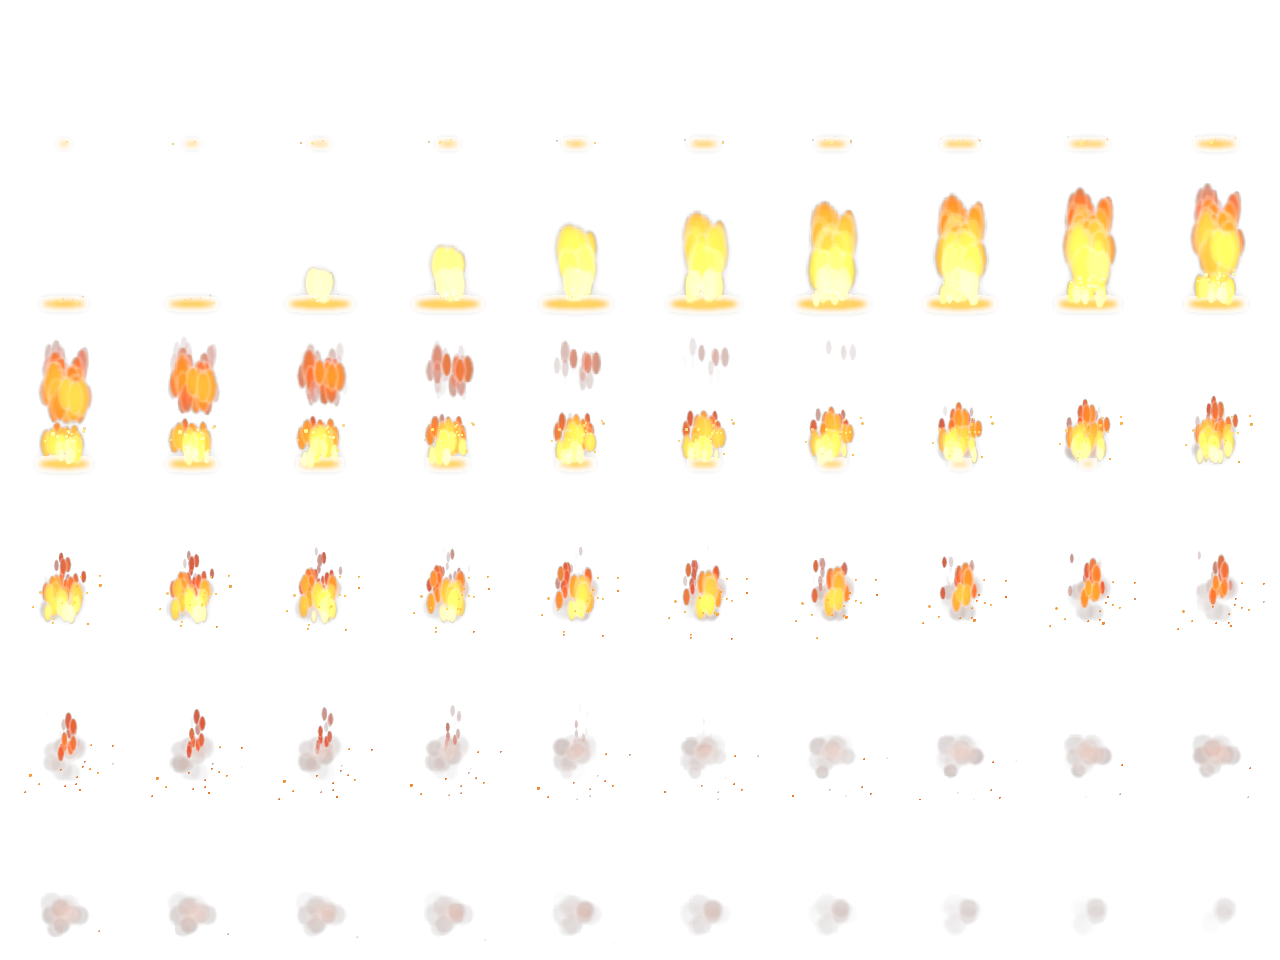
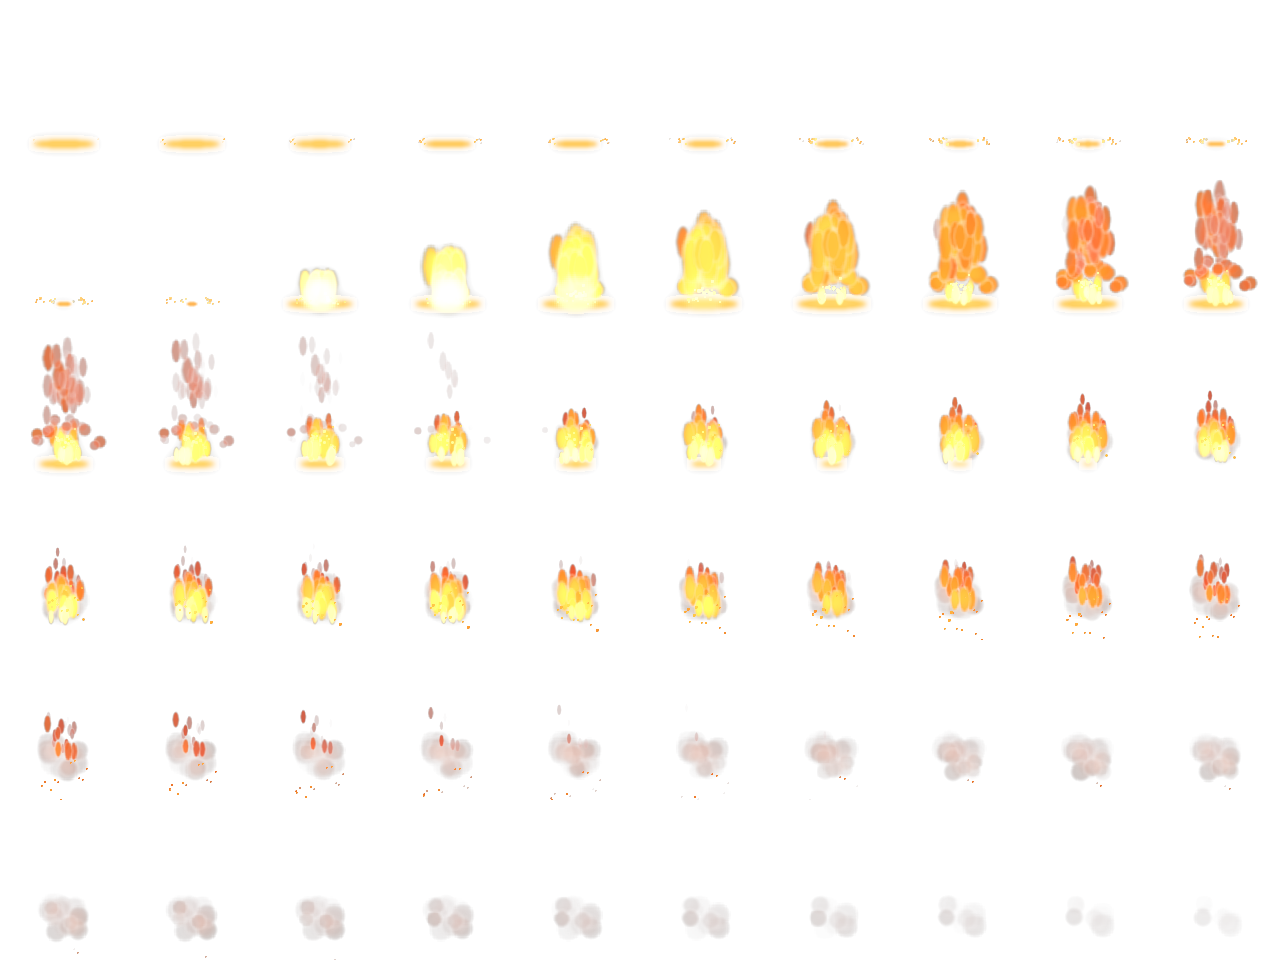
[pixel-composer-mcp] 불 이펙트 피드백 반영: 응축 전조 + 한 번에 터지는 분출

diff --git a/examples/elemental-rise/build_fire.py b/examples/elemental-rise/build_fire.py
@@ -1,7 +1,8 @@
 """Build fire.pxc: an explosive flame burst erupting from the ground line, two styles.
 
-Canvas 128x160, ground y=144, 60 frames @ 24 fps. Timeline: telegraph 0-11 (ground glow, slow
-embers), burst 12-17 (peak ~frame 18), rolling flame to ~32, smoke and falling embers to 59.
+Canvas 128x160, ground y=144, 60 frames @ 24 fps. Timeline: telegraph 0-11 (energy condenses:
+embers converge on the centre while the ground glow shrinks and sharpens), bang at 12 (flash,
+column and sideways blast spawned in 2 frames), rolling flame to ~32, smoke and falling embers to 59.
 Layers are chained through each particle node's Background input (back to front).
 Illustration = the chain's output; pixel = alpha threshold + 6-colour hard gradient map + De-Stray,
 sampled every 2nd frame (12 fps).
@@ -41,7 +42,8 @@ g.add({
     "tongue": ("Node_Shape", 0, 480), "tongsoft": ("Node_Blur", 160, 480), "bloom": ("Node_Bloom", 1120, 0), "haze": ("Node_Level", 1280, 0),
     "glow": ("Node_Shape", 0, 320), "glowsoft": ("Node_Blur", 160, 320),
     "smoke": ("Node_Particle", 320, 0), "hold": ("Node_Particle", 480, 0), "core": ("Node_Particle", 640, 0),
-    "sparks": ("Node_Particle", 800, 0), "tele": ("Node_Particle", 960, 0),
+    "sparks": ("Node_Particle", 800, 0), "inL": ("Node_Particle", 960, 0), "inR": ("Node_Particle", 960, 160),
+    "blast": ("Node_Particle", 480, 160), "flash": ("Node_Particle", 960, 320),
     "thr": ("Node_Threshold", 1120, 160), "amask": ("Node_Alpha_Grey", 1120, 320), "pal": ("Node_Posterize", 1280, 160), "clean": ("Node_De_Stray", 1440, 160),
     "sheet_il": ("Node_Render_Sprite_Sheet", 1600, 0), "sheet_px": ("Node_Render_Sprite_Sheet", 1600, 160),
     "png_il": ("Node_Export", 1760, 0), "gif_il": ("Node_Export", 1760, 80),
@@ -55,11 +57,11 @@ g.dim("tongue", 0, [24, 40]).set("tongue", 17, [0.28, 0.4]).set("tongue", 2, "El
 g.link("tongue", "tongsoft", 0).set("tongsoft", 1, 4)
 g.dim("dot", 0, [6, 6]).set("dot", 17, [0.35, 0.35]).set("dot", 2, "Ellipse").set("dot", 1, 0).set("dot", 6, True)
 
-# ground glow: grows during the telegraph, flashes wide on the burst, fades out
+# ground glow: wide and diffuse -> tight and hot during the telegraph (condensing), flashes wide on the bang
 g.set("glow", 2, "Ellipse").set("glow", 1, 0).set("glow", 6, True).set("glow", 15, 1)
 g.set("glow", 16, [CX, GROUND], absolute=True).set("glow", 10, color(255, 170, 80))
-g.anim("glow", 17, [(0, [4, 1]), (11, [22, 3]), (12, [30, 4]), (16, [34, 5]), (26, [10, 2]), (30, [0, 0])], absolute=True)
-g.link("glow", "glowsoft", 0).set("glowsoft", 1, 6)
+g.anim("glow", 17, [(0, [30, 4]), (11, [5, 2]), (12, [32, 4]), (16, [34, 5]), (26, [10, 2]), (30, [0, 0])], absolute=True)
+g.link("glow", "glowsoft", 0).anim("glowsoft", 1, [(0, 6), (11, 2), (12, 6)])  # >6 wraps the ground glow to the top row
 
 FIRE = [(0, (255, 250, 220)), (0.2, (255, 220, 90)), (0.45, (255, 140, 40)), (0.7, (230, 70, 30)), (1, (150, 30, 30))]
 emitter(g, "smoke", "soft", "glowsoft", spawn=switch(20, 50), amount=[1, 2], area=[CX, 122, 16, 14],
@@ -70,32 +72,46 @@ emitter(g, "hold", "tongsoft", "smoke", spawn=switch(16, 34), amount=[3, 4], are
         life=[10, 16], direction=[82, 98], speed=[4, 7], speed_curve=[(0, 1), (1, 0.3)],
         size=[0.6, 0.9], size_curve=[(0, 0.5), (0.3, 1), (1, 0.3)],
         colors=FIRE, alpha_curve=[(0, 1), (0.75, 0.9), (1, 0)])
-emitter(g, "core", "tongsoft", "hold", spawn=switch(12, 18), amount=[9, 11], area=[CX, 143, 12, 2],
-        life=[8, 12], direction=[80, 100], speed=[17, 21], speed_curve=[(0, 1), (0.5, 0.35), (1, 0.15)],
+# the bang: everything below spawns in frames 12-13 only
+emitter(g, "blast", "soft", "hold", spawn=switch(12, 14), amount=[8, 10], area=[CX, 140, 4, 2],
+        life=[10, 14], direction=[20, 160], speed=[9, 11], speed_curve=[(0, 1), (0.3, 0.25), (1, 0.05)],
+        size=[0.7, 1.0], size_curve=[(0, 0.6), (0.3, 1.1), (1, 0.3)],
+        colors=FIRE, alpha_curve=[(0, 1), (0.6, 0.9), (1, 0)])
+# wide speed range: particles spawned together still stretch into one column instead of a lump
+emitter(g, "core", "tongsoft", "blast", spawn=switch(12, 14), amount=[22, 26], area=[CX, 143, 12, 2],
+        life=[8, 13], direction=[80, 100], speed=[10, 22], speed_curve=[(0, 1), (0.5, 0.35), (1, 0.15)],
         size=[0.9, 1.3], size_curve=[(0, 0.5), (0.25, 1.15), (1, 0.35)],
         colors=FIRE, alpha_curve=[(0, 1), (0.6, 0.9), (1, 0)])
 emitter(g, "sparks", "dot", "core", spawn=switch(12, 16), amount=[3, 5], area=[CX, 140, 10, 4],
-        life=[30, 44], direction=[65, 115], speed=[3, 6], speed_curve=[(0, 1), (1, 0.4)],
+        life=[30, 44], direction=[72, 108], speed=[3, 5], speed_curve=[(0, 1), (1, 0.4)],
         size=[0.6, 1.0], size_curve=[(0, 1), (1, 0.6)],
         colors=[(0, (255, 250, 200)), (0.5, (255, 180, 60)), (1, (220, 70, 30))],
         alpha_curve=[(0, 1), (0.8, 1), (1, 0)], gravity=[0.3, 0.4])
-emitter(g, "tele", "dot", "sparks", spawn=switch(0, 12), amount=[1, 1], area=[CX, 144, 22, 1],
-        life=[8, 14], direction=[85, 95], speed=[0.6, 1.2], speed_curve=[(0, 1), (1, 1)],
-        size=[0.6, 0.9], size_curve=[(0, 1), (1, 0.5)],
-        colors=[(0, (255, 220, 120)), (1, (230, 80, 30))], alpha_curve=[(0, 1), (1, 0)])
+# telegraph: embers from both sides accelerate into the centre and die before the bang
+# (spread comes from the area height, not the angle, so directions stay exactly 0 / 180)
+CONVERGE = dict(spawn=switch(0, 9), amount=[1, 2], life=[9, 11], speed=[3.4, 3.8],
+                speed_curve=[(0, 0.4), (1, 1)], size=[0.6, 0.9], size_curve=[(0, 0.6), (1, 1)],
+                colors=[(0, (255, 160, 60)), (1, (255, 240, 170))], alpha_curve=[(0, 0), (0.2, 1), (0.85, 1), (1, 0)])
+emitter(g, "inL", "dot", "sparks", area=[CX - 30, 141, 6, 3], direction=[0, 0], **CONVERGE)
+emitter(g, "inR", "dot", "inL", area=[CX + 30, 141, 6, 3], direction=[180, 180], **CONVERGE)
+# white flash on the bang frame, in front of everything
+emitter(g, "flash", "soft", "inR", spawn=switch(12, 14), amount=[1, 1], area=[CX, 136, 0, 0],
+        life=[4, 4], direction=[90, 90], speed=[0, 0], speed_curve=[(0, 1), (1, 1)],
+        size=[2.0, 2.0], size_curve=[(0, 0.7), (0.4, 1), (1, 1)],
+        colors=[(0, (255, 255, 240)), (1, (255, 230, 140))], alpha_curve=[(0, 1), (1, 0)])
 
 # pixel version: hard alpha, snap to a 7-colour palette (2 smoke greys + 5 fire), remove stray pixels
 PIXEL_PALETTE = [(110, 90, 100), (165, 135, 130), (150, 35, 35), (225, 75, 35), (255, 145, 45),
                  (255, 215, 95), (255, 250, 215)]
 # Palette Posterize writes opaque pixels everywhere, so it is masked by a hard 0/1 mask made from
 # the thresholded alpha: inside -> palette colour, outside -> the (fully transparent) input.
-g.link("tele", "thr", 0).set("thr", 7, True).set("thr", 8, 0.2)
+g.link("flash", "thr", 0).set("thr", 7, True).set("thr", 8, 0.2)
 g.link("thr", "amask", 0)
 g.link("thr", "pal", 0).link("amask", "pal", 12).set("pal", 2, True).set("pal", 1, [color(*c) for c in PIXEL_PALETTE])
 g.link("pal", "clean", 0)
 
 # bloom spreads near-zero alpha over the whole frame; Level clips it (alpha < 4% -> 0)
-g.link("tele", "bloom", 0).link("bloom", "haze", 0).set("haze", 5, [0.04, 1])
+g.link("flash", "bloom", 0).link("bloom", "haze", 0).set("haze", 5, [0.04, 1])
 
 # outputs: illustration every frame, pixel every 2nd frame; 10-column grids
 g.link("haze", "sheet_il", 0).set("sheet_il", 3, 2).set("sheet_il", 4, 10)
